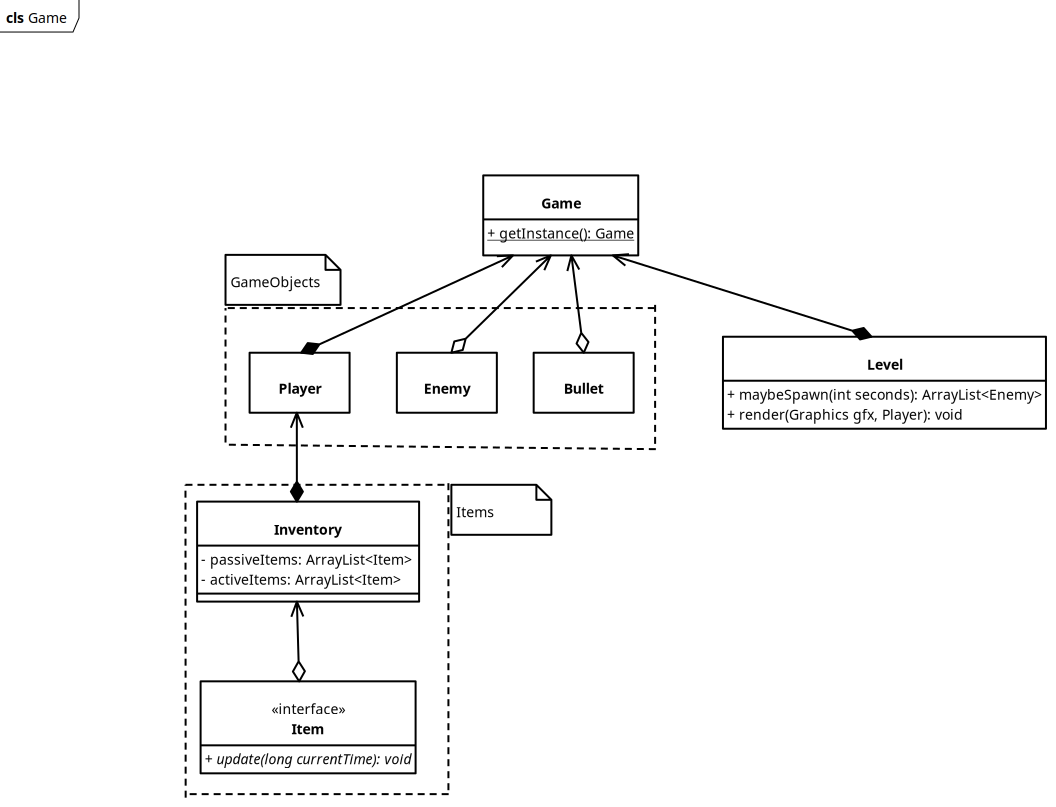
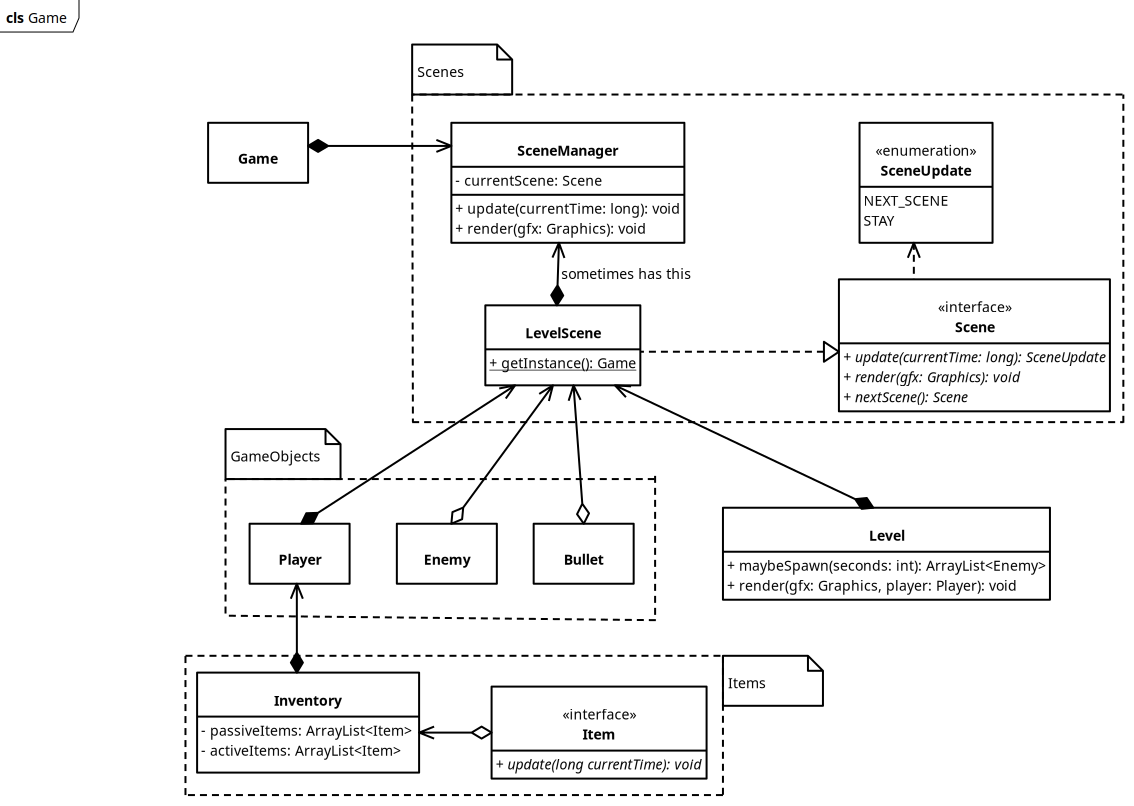
report: Update some diagrams + add package diagram

diff --git a/report/report.tex b/report/report.tex
@@ -302,6 +302,12 @@
         \emph{main loop} realizează interactivitatea cu jucătorul.
     \end{itemize}
 
+    \begin{figure}[H]
+        \includegraphics[width=\linewidth]{package-diagram}
+        \centering
+        \caption{Diagrama de pachete a jocului}
+    \end{figure}
+
     \subsection{Pachetul \texttt{GameObjects}}
     \begin{figure}[H]
         \includegraphics[width=\linewidth]{gameobjects-diagram}
